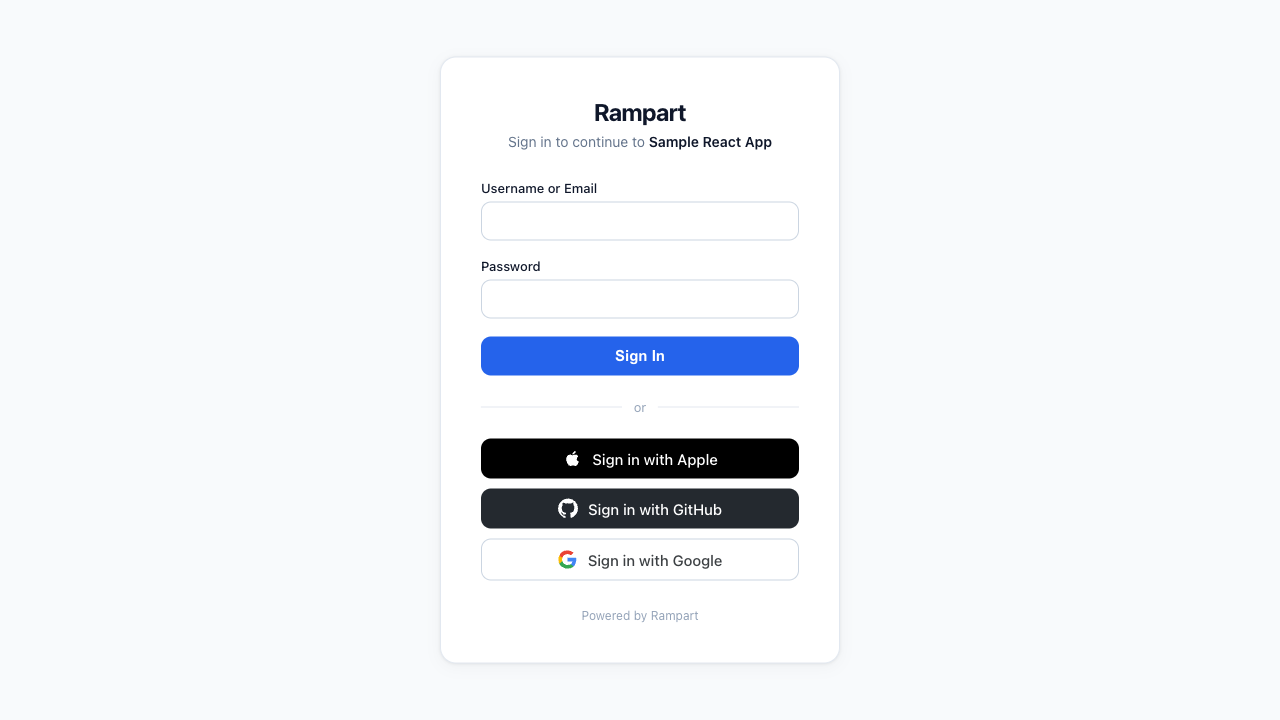
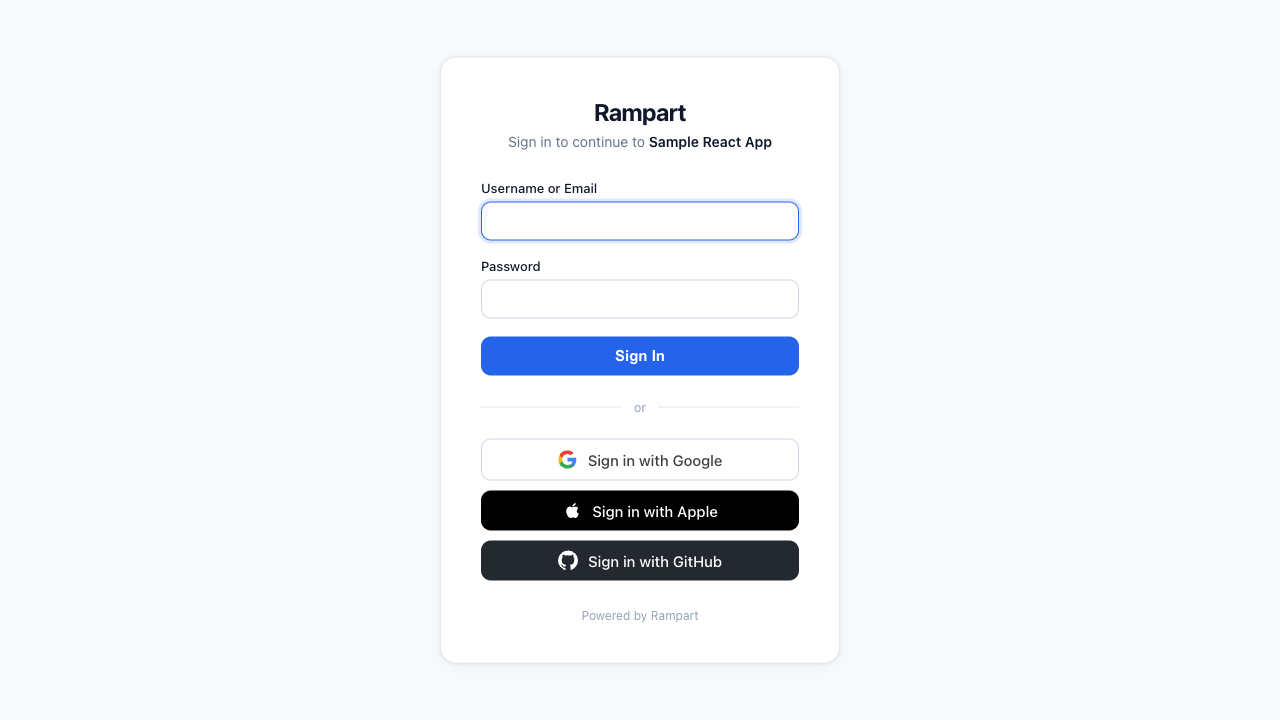
ui: reorder social login buttons (Google, Apple, GitHub) + update README screenshot

Changed region(s): [[0.375, 0.6111, 0.625, 0.825], [0.375, 0.275, 0.625, 0.3361]]

diff --git a/internal/handler/templates/login/default.html b/internal/handler/templates/login/default.html
@@ -180,26 +180,24 @@
         {{if .SocialProviders}}
         <div class="divider"><span>or</span></div>
         <div class="social-buttons">
-            {{range .SocialProviders}}
-            {{if eq . "google"}}
+            {{range .SocialProviders}}{{if eq . "google"}}
             <a href="/oauth/social/google?client_id={{$.ClientID}}&redirect_uri={{$.RedirectURI}}&scope={{$.Scope}}&state={{$.State}}&code_challenge={{$.CodeChallenge}}&nonce={{$.Nonce}}" class="social-btn social-btn-google" role="button" aria-label="Sign in with Google">
                 <svg width="20" height="20" viewBox="0 0 24 24"><path d="M22.56 12.25c0-.78-.07-1.53-.2-2.25H12v4.26h5.92a5.06 5.06 0 0 1-2.2 3.32v2.77h3.57c2.08-1.92 3.28-4.74 3.28-8.1z" fill="#4285F4"/><path d="M12 23c2.97 0 5.46-.98 7.28-2.66l-3.57-2.77c-.98.66-2.23 1.06-3.71 1.06-2.86 0-5.29-1.93-6.16-4.53H2.18v2.84C3.99 20.53 7.7 23 12 23z" fill="#34A853"/><path d="M5.84 14.09c-.22-.66-.35-1.36-.35-2.09s.13-1.43.35-2.09V7.07H2.18C1.43 8.55 1 10.22 1 12s.43 3.45 1.18 4.93l2.85-2.22.81-.62z" fill="#FBBC05"/><path d="M12 5.38c1.62 0 3.06.56 4.21 1.64l3.15-3.15C17.45 2.09 14.97 1 12 1 7.7 1 3.99 3.47 2.18 7.07l3.66 2.84c.87-2.6 3.3-4.53 6.16-4.53z" fill="#EA4335"/></svg>
                 Sign in with Google
             </a>
-            {{end}}
-            {{if eq . "github"}}
-            <a href="/oauth/social/github?client_id={{$.ClientID}}&redirect_uri={{$.RedirectURI}}&scope={{$.Scope}}&state={{$.State}}&code_challenge={{$.CodeChallenge}}&nonce={{$.Nonce}}" class="social-btn social-btn-github" role="button" aria-label="Sign in with GitHub">
-                <svg width="20" height="20" viewBox="0 0 24 24" fill="currentColor"><path d="M12 0C5.37 0 0 5.37 0 12c0 5.31 3.435 9.795 8.205 11.385.6.105.825-.255.825-.57 0-.285-.015-1.23-.015-2.235-3.015.555-3.795-.735-4.035-1.41-.135-.345-.72-1.41-1.23-1.695-.42-.225-1.02-.78-.015-.795.945-.015 1.62.87 1.845 1.23 1.08 1.815 2.805 1.305 3.495.99.105-.78.42-1.305.765-1.605-2.67-.3-5.46-1.335-5.46-5.925 0-1.305.465-2.385 1.23-3.225-.12-.3-.54-1.53.12-3.18 0 0 1.005-.315 3.3 1.23.96-.27 1.98-.405 3-.405s2.04.135 3 .405c2.295-1.56 3.3-1.23 3.3-1.23.66 1.65.24 2.88.12 3.18.765.84 1.23 1.905 1.23 3.225 0 4.605-2.805 5.625-5.475 5.925.435.375.81 1.095.81 2.22 0 1.605-.015 2.895-.015 3.3 0 .315.225.69.825.57A12.02 12.02 0 0 0 24 12c0-6.63-5.37-12-12-12z"/></svg>
-                Sign in with GitHub
-            </a>
-            {{end}}
-            {{if eq . "apple"}}
+            {{end}}{{end}}
+            {{range .SocialProviders}}{{if eq . "apple"}}
             <a href="/oauth/social/apple?client_id={{$.ClientID}}&redirect_uri={{$.RedirectURI}}&scope={{$.Scope}}&state={{$.State}}&code_challenge={{$.CodeChallenge}}&nonce={{$.Nonce}}" class="social-btn social-btn-apple" role="button" aria-label="Sign in with Apple">
                 <svg width="20" height="20" viewBox="0 0 24 24" fill="currentColor"><path d="M17.05 20.28c-.98.95-2.05.88-3.08.4-1.09-.5-2.08-.48-3.24 0-1.44.62-2.2.44-3.06-.4C2.79 15.25 3.51 7.59 9.05 7.31c1.35.07 2.29.74 3.08.8 1.18-.24 2.31-.93 3.57-.84 1.51.12 2.65.72 3.4 1.8-3.12 1.87-2.38 5.98.48 7.13-.57 1.5-1.31 2.99-2.54 4.09zM12.03 7.25c-.15-2.23 1.66-4.07 3.74-4.25.29 2.58-2.34 4.5-3.74 4.25z"/></svg>
                 Sign in with Apple
             </a>
-            {{end}}
-            {{end}}
+            {{end}}{{end}}
+            {{range .SocialProviders}}{{if eq . "github"}}
+            <a href="/oauth/social/github?client_id={{$.ClientID}}&redirect_uri={{$.RedirectURI}}&scope={{$.Scope}}&state={{$.State}}&code_challenge={{$.CodeChallenge}}&nonce={{$.Nonce}}" class="social-btn social-btn-github" role="button" aria-label="Sign in with GitHub">
+                <svg width="20" height="20" viewBox="0 0 24 24" fill="currentColor"><path d="M12 0C5.37 0 0 5.37 0 12c0 5.31 3.435 9.795 8.205 11.385.6.105.825-.255.825-.57 0-.285-.015-1.23-.015-2.235-3.015.555-3.795-.735-4.035-1.41-.135-.345-.72-1.41-1.23-1.695-.42-.225-1.02-.78-.015-.795.945-.015 1.62.87 1.845 1.23 1.08 1.815 2.805 1.305 3.495.99.105-.78.42-1.305.765-1.605-2.67-.3-5.46-1.335-5.46-5.925 0-1.305.465-2.385 1.23-3.225-.12-.3-.54-1.53.12-3.18 0 0 1.005-.315 3.3 1.23.96-.27 1.98-.405 3-.405s2.04.135 3 .405c2.295-1.56 3.3-1.23 3.3-1.23.66 1.65.24 2.88.12 3.18.765.84 1.23 1.905 1.23 3.225 0 4.605-2.805 5.625-5.475 5.925.435.375.81 1.095.81 2.22 0 1.605-.015 2.895-.015 3.3 0 .315.225.69.825.57A12.02 12.02 0 0 0 24 12c0-6.63-5.37-12-12-12z"/></svg>
+                Sign in with GitHub
+            </a>
+            {{end}}{{end}}
         </div>
         {{end}}
 
